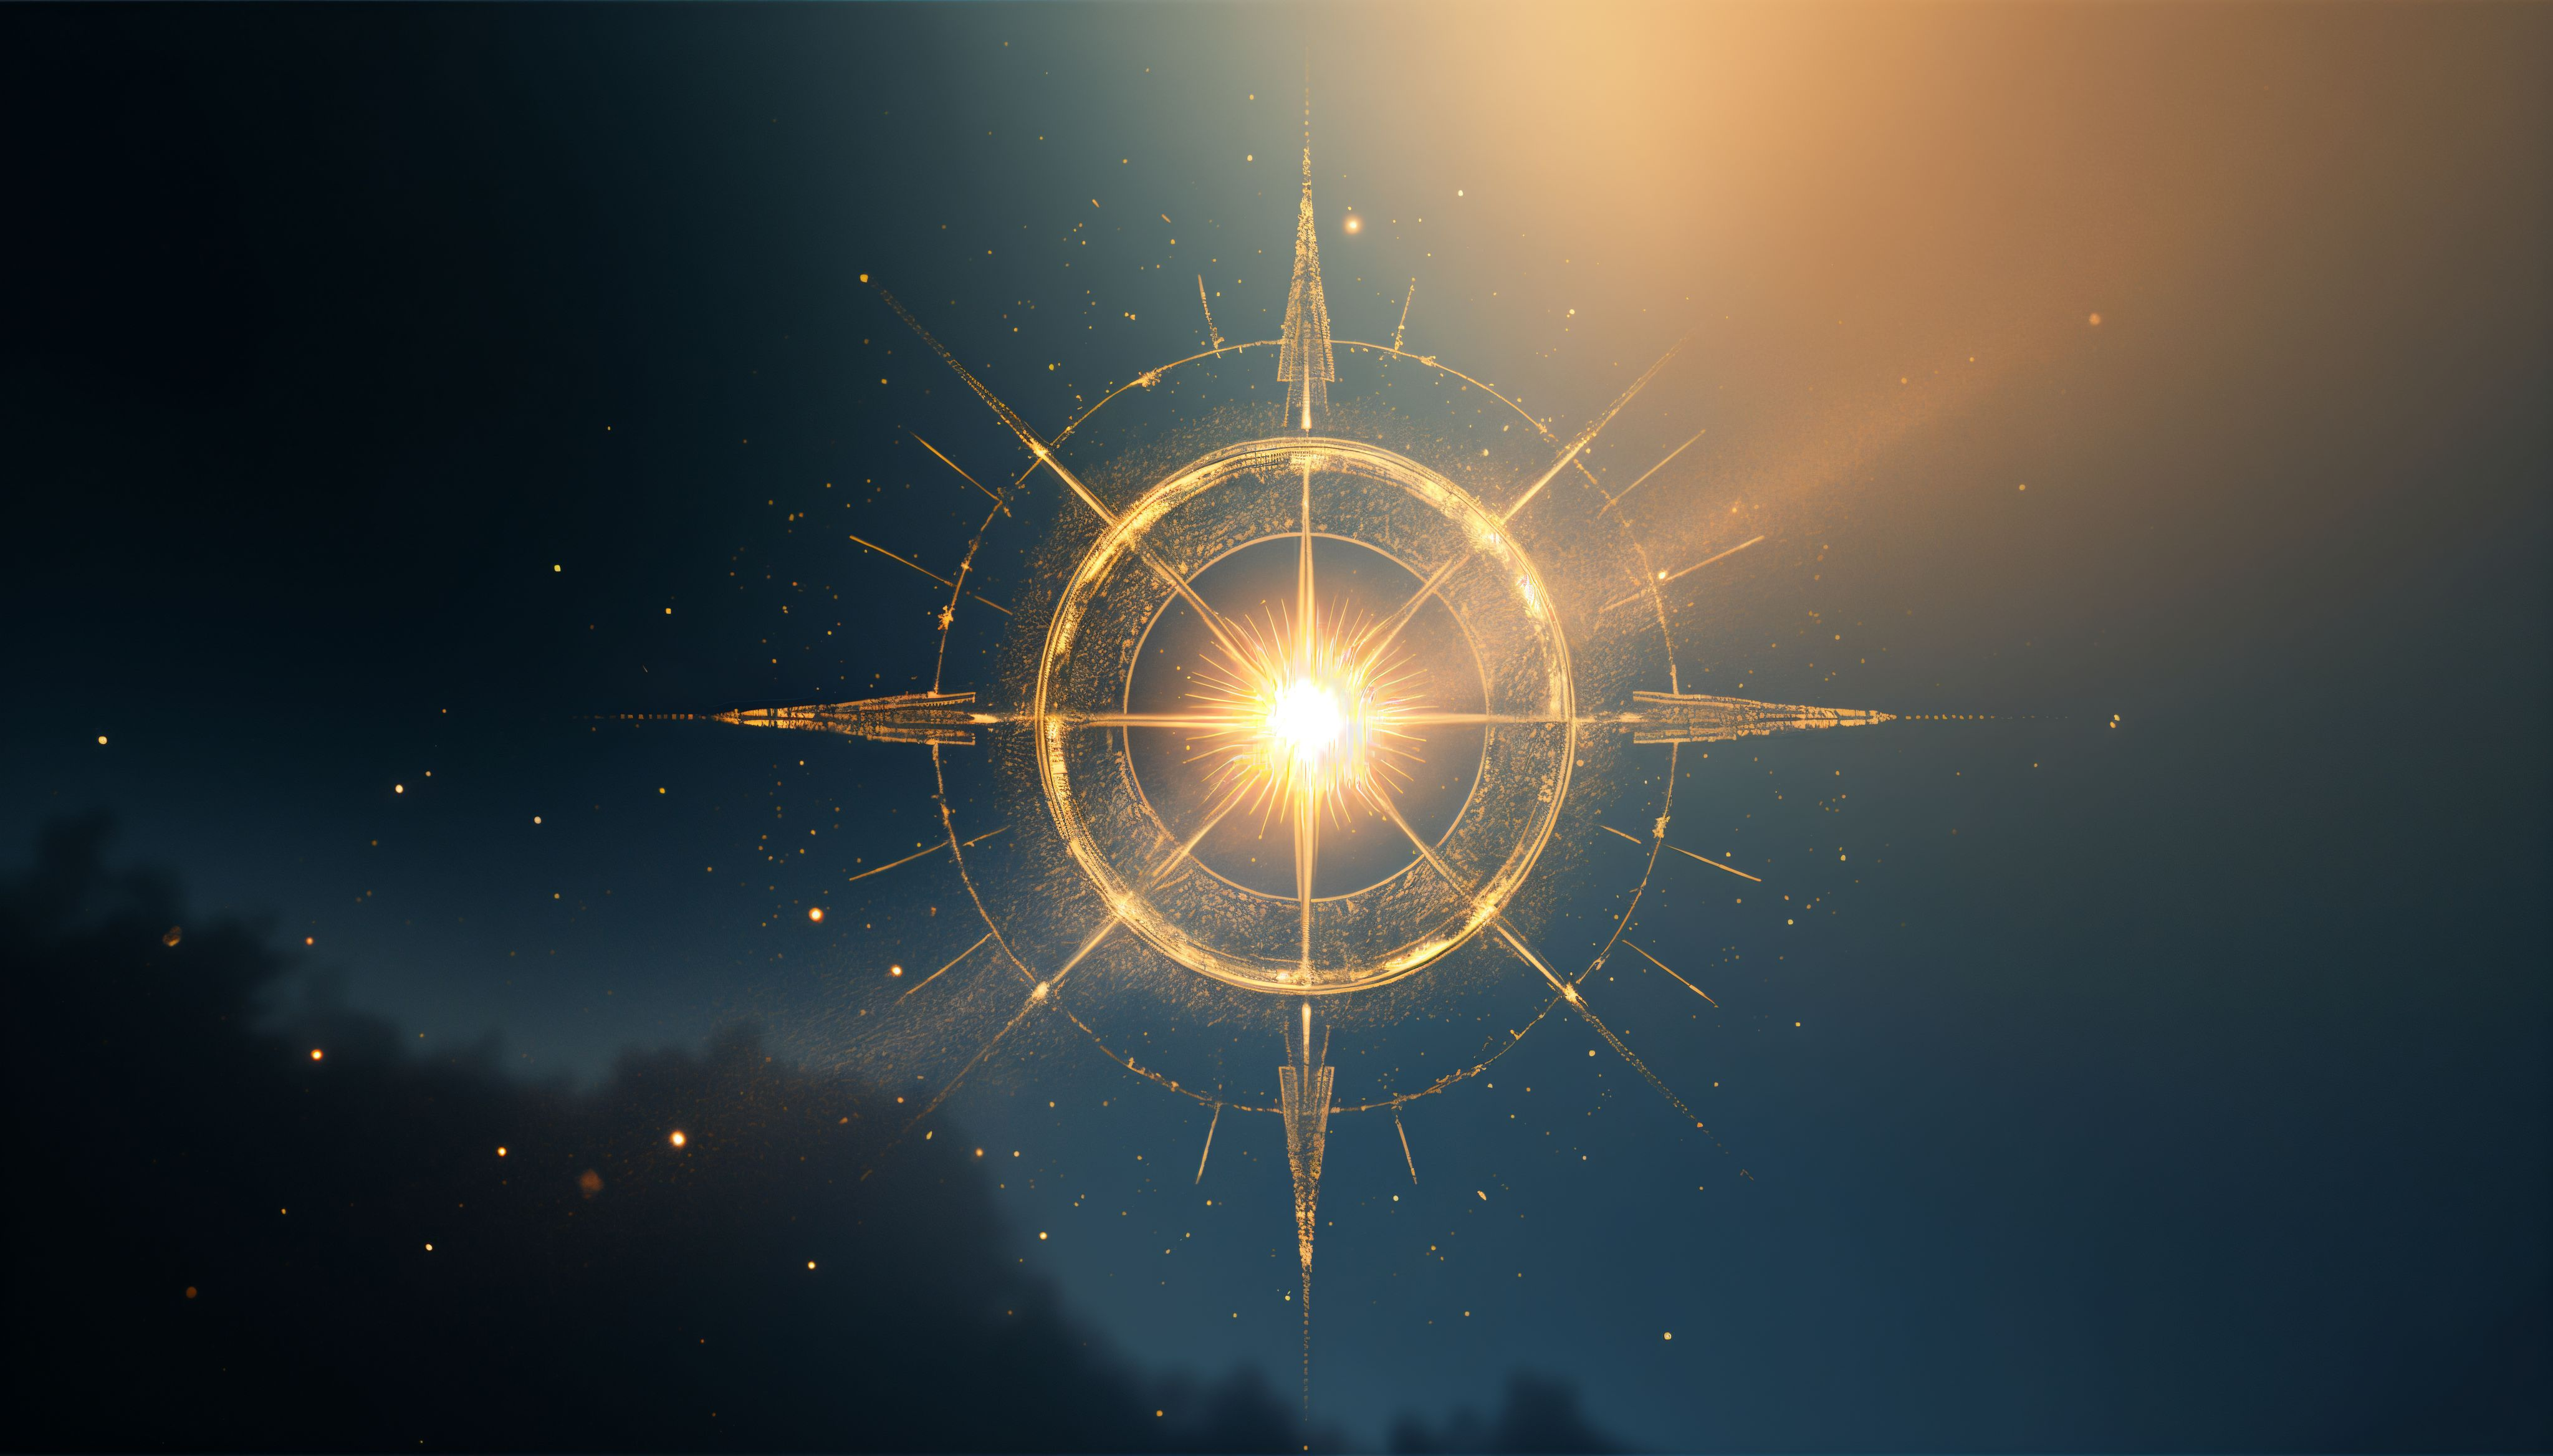
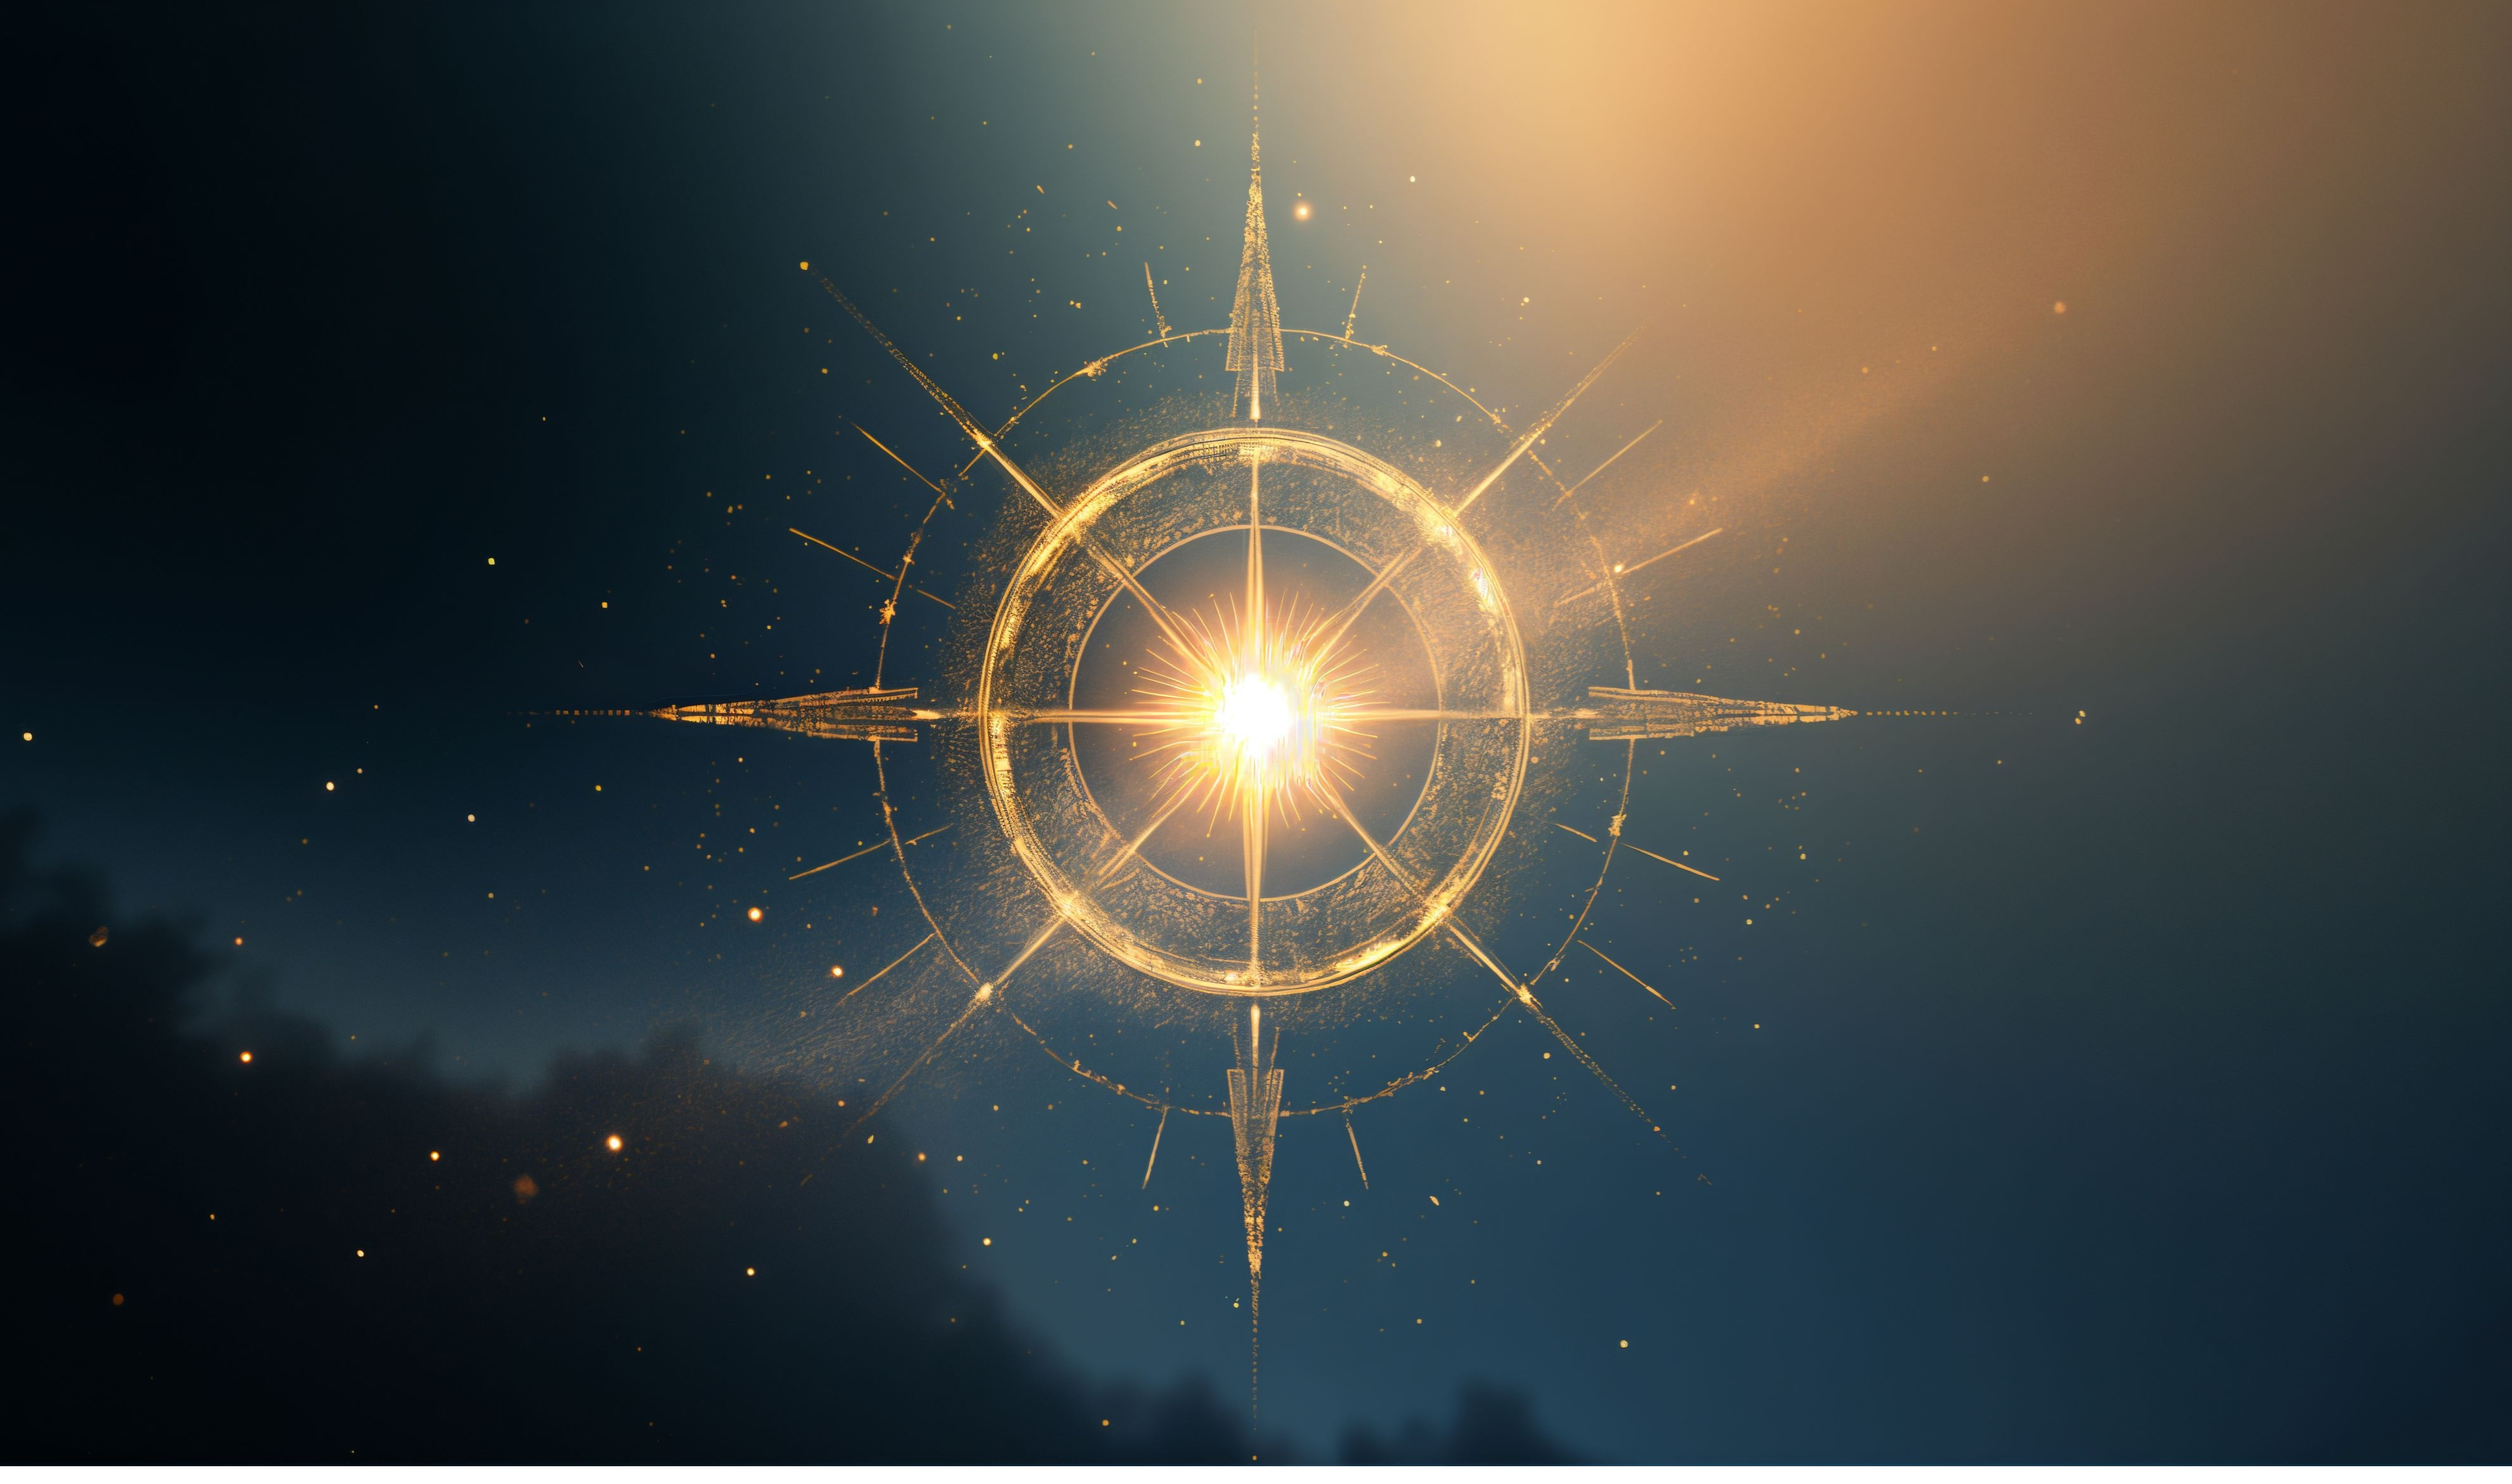
maj

diff --git a/tore.html b/tore.html
@@ -1,4 +1,4 @@
-<!DOCTYPE html>
+<!DOCTYPE html>
 
 <html lang="fr">
 
@@ -517,6 +517,11 @@
   /* RESPONSIVE MOBILE PORTRAIT (< 640px) : plateau sans scroll */
   @media (max-width: 639px) and (orientation: portrait) {
 
+    /* Position du fond centrée sur mobile */
+    #tore-immersif {
+      background-position: center center !important;
+    }
+
     /* Pendant le tirage actif : fixer la section au viewport */
     body.tore-playing #tore-immersif {
       position: fixed;
@@ -652,6 +657,11 @@
   /* ── TABLETTE & DESKTOP (≥ 640px) ── */
   @media (min-width: 640px) {
 
+    /* Position du fond décalée vers la gauche sur desktop */
+    #tore-immersif {
+      background-position: 40% center !important;
+    }
+
     /* Masquer les labels de famille */
     .tore-family-label {
       display: none !important;
@@ -674,26 +684,41 @@
 
     /* Plateau : carré qui tient dans la zone du board */
     #tore-immersif .tore-board-7 {
-      /* Prend le min de la hauteur et de la largeur disponibles */
       width:  min(calc(100vw - 20px), calc(100vh - 172px));
       height: min(calc(100vw - 20px), calc(100vh - 172px));
       max-width:  700px;
       max-height: 700px;
       aspect-ratio: 1 / 1;
       grid-template-columns: repeat(3, 1fr);
-      grid-template-rows: repeat(3, 1fr);
+      grid-template-rows: repeat(3, auto);
       gap: 0.5rem;
       padding: 0.5rem;
       flex-shrink: 0;
+      align-content: center;
+      justify-content: center;
     }
 
-    /* Cartes : remplissent leur cellule — écrase les valeurs globales */
+    /* Cartes : hauteur contrainte, largeur calculée automatiquement via ratio */
     #tore-immersif .tore-board-7 .tore-card {
-      width: 100% !important;
-      max-width: none !important;
-      height: 100% !important;
-      aspect-ratio: unset !important;
-      margin: 0 !important;
+      width: auto !important;
+      max-width: 100% !important;
+      height: calc((min(calc(100vw - 20px), calc(100vh - 172px)) - 1rem - 1rem) / 3) !important;
+      aspect-ratio: 64 / 90 !important;
+      margin: 0 auto !important;
+      align-self: center;
+      transform: none !important;
+    }
+
+    /* Décaler Transmutations et Émotions (colonne gauche) vers la droite */
+    #tore-immersif .tore-board-7 .tore-card.pos-1,
+    #tore-immersif .tore-board-7 .tore-card.pos-3 {
+      transform: translateX(60px) !important;
+    }
+
+    /* Décaler Archétypes et Actions (colonne droite) vers la gauche */
+    #tore-immersif .tore-board-7 .tore-card.pos-2,
+    #tore-immersif .tore-board-7 .tore-card.pos-5 {
+      transform: translateX(-60px) !important;
     }
 
     /* Contenu interne suit la taille de la carte */
@@ -848,7 +873,7 @@
 
     background-color: #020817;
 
-    background-size: cover;
+    background-size: 100% 100%;
 
     background-repeat: no-repeat;
 
@@ -1625,6 +1650,7 @@
 
 
 
+
   /* ========================
 
      PIÈCE DE TIRAGE ORADIA
@@ -2015,7 +2041,7 @@
 
   inset: 0;
 
-  background: url('images/oradia-hero-4k.png') 51.5% center/cover no-repeat;
+  background: url('images/oradia-hero-4k.png') 28% center/cover no-repeat;
 
   display: flex;
 
@@ -2525,7 +2551,7 @@
   </div>
 
 <section id="tore-immersif" class="relative"
-  style="background: linear-gradient(135deg, #0a192f 0%, #051428 100%); background-image: url('images/oradia-hero-4k.png'); background-size: cover; background-position: 51.5% center;">
+  style="background-image: url('images/oradia-hero-4k.png'); background-size: cover; background-repeat: no-repeat;">
 
   <!-- Voile comme l'index -->
   <div class="absolute inset-0" style="background: radial-gradient(circle at 20% 80%, rgba(212,175,55,0.08) 0%, transparent 50%), radial-gradient(circle at 80% 20%, rgba(212,175,55,0.04) 0%, transparent 50%), linear-gradient(135deg, rgba(10,25,47,0.65) 0%, rgba(5,20,40,0.75) 100%);"></div>